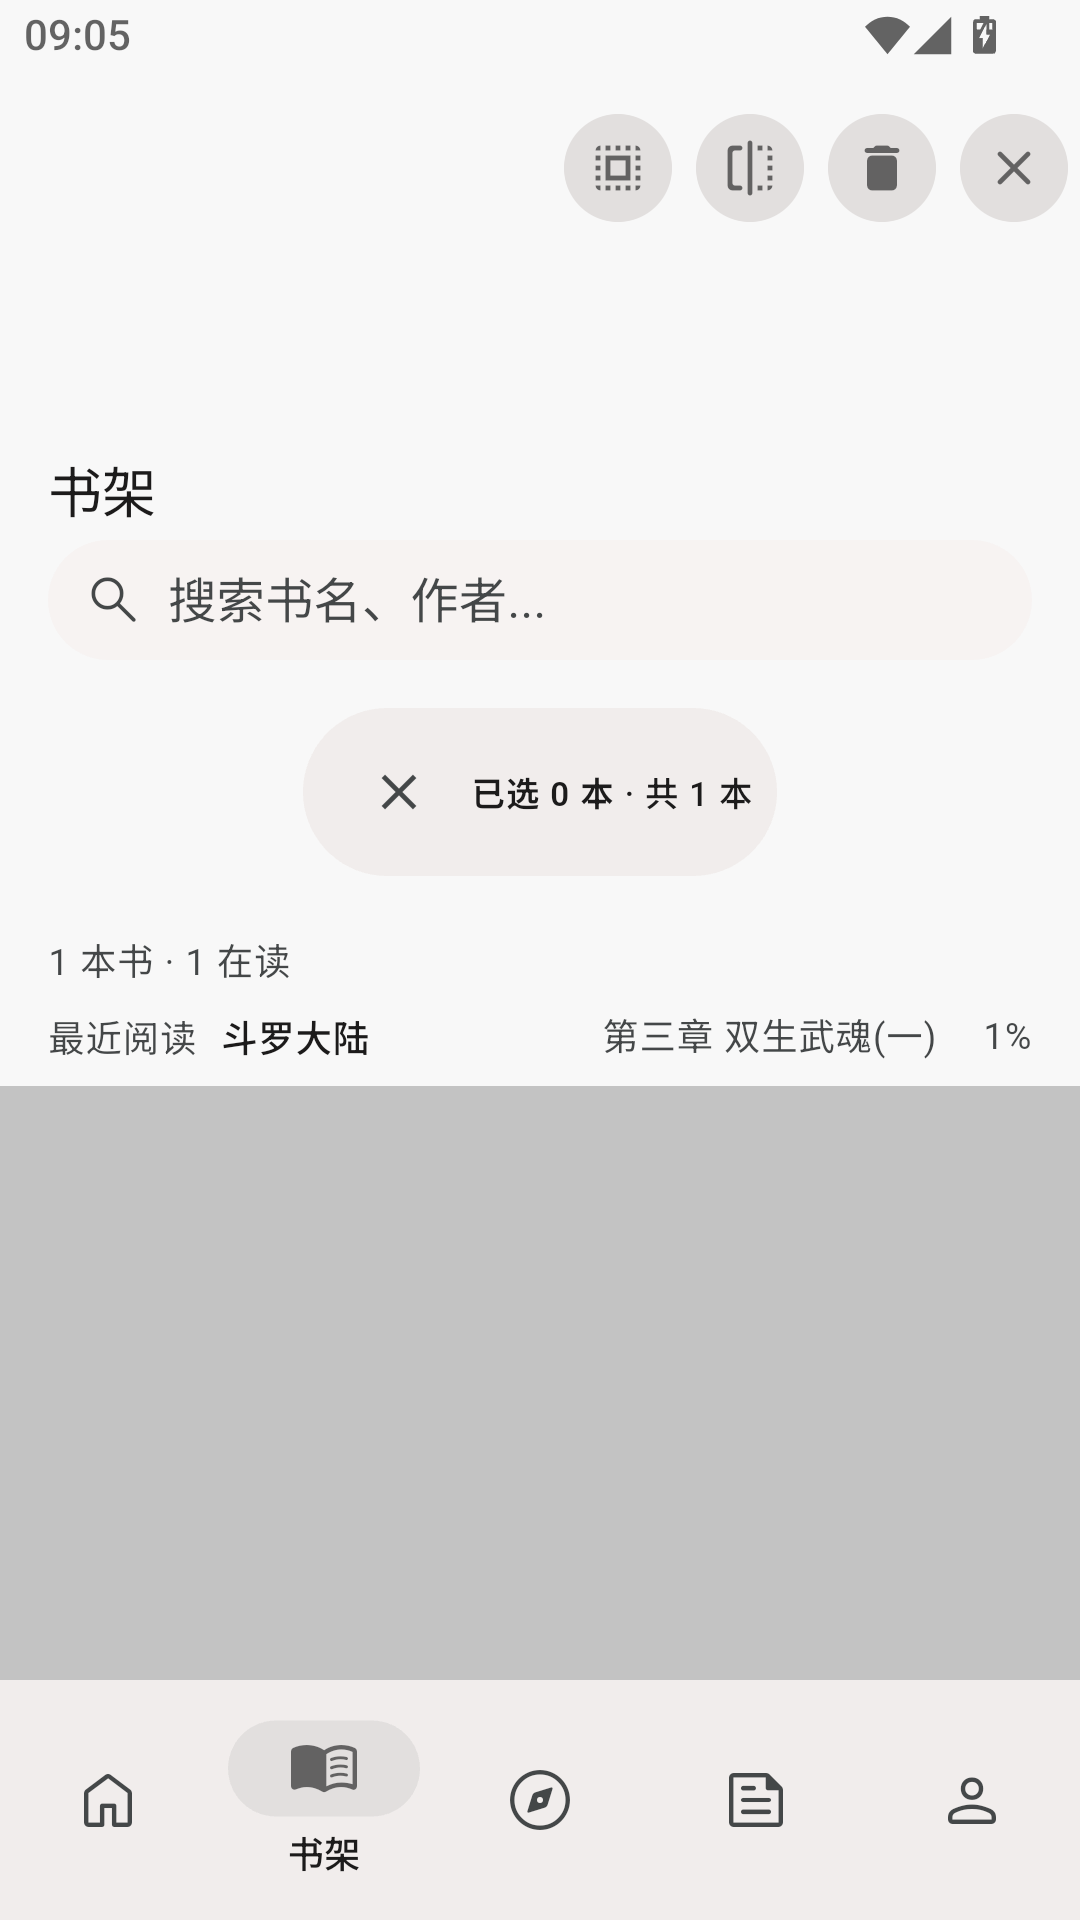
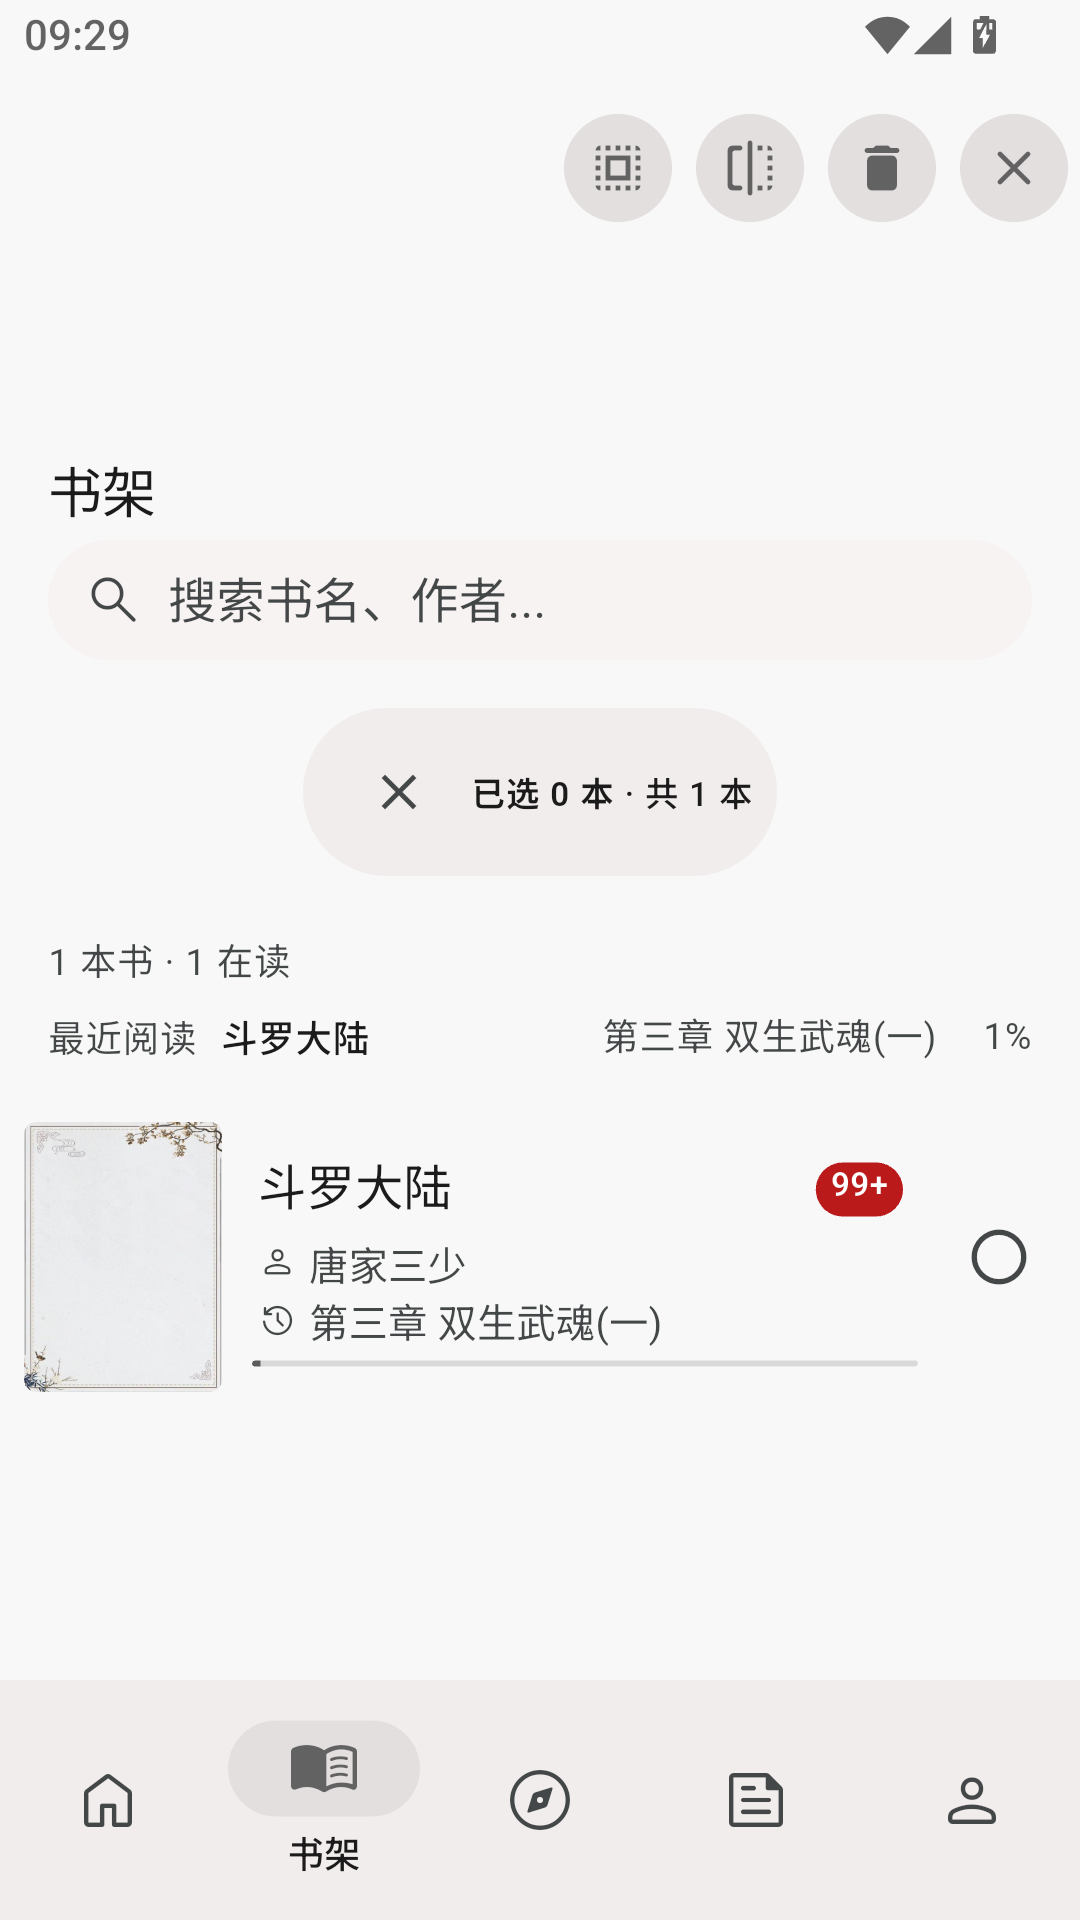
fix(ui): 书架选择模式书卡列表补 Key 修复不渲染——SliverReorderableList 要求 item 带 Key（2.0.258 复审缺陷补修）

diff --git a/flutter_legado/test/widget/bookshelf_batch_mode_test.dart b/flutter_legado/test/widget/bookshelf_batch_mode_test.dart
@@ -1,0 +1,112 @@
+import 'package:flutter/material.dart';
+import 'package:flutter_riverpod/flutter_riverpod.dart'
+    hide Provider, ChangeNotifierProvider;
+import 'package:flutter_test/flutter_test.dart';
+import 'package:shared_preferences/shared_preferences.dart';
+
+import 'package:flutter_legado/src/providers/bookshelf/bookshelf_notifier.dart';
+import 'package:flutter_legado/src/providers/providers.dart';
+import 'package:flutter_legado/src/screens/bookshelf_screen.dart';
+import 'package:flutter_legado/src/services/mock_book_api.dart';
+
+/// 选择模式（批量）书卡列表渲染回归测试
+///
+/// 背景：台账 1-5 P0「选择模式书卡列表不渲染」。此前整屏空白已修，但选择
+/// 模式下书架列表/网格分支仍未完整呈现书卡（封面+书名+作者）+ 勾选态。
+/// 本测试 pump 真实 [BookshelfScreen]（注入 MockBookApi 提供 3 本书），
+/// 复现并锁定「进入选择模式后书卡行仍渲染 + 点按切换勾选 + 胶囊数字变化」。
+void main() {
+  /// pump 真实书架页并返回其 ProviderScope 的容器（Riverpod 2.x 用
+  /// ProviderScope.containerOf 取回，避免已移除的 `container:` 参数）。
+  Future<ProviderContainer> pumpShelf(WidgetTester tester) async {
+    await tester.pumpWidget(
+      ProviderScope(
+        overrides: [bookApiProvider.overrideWithValue(MockBookApi())],
+        child: MaterialApp(home: BookshelfScreen()),
+      ),
+    );
+    final context = tester.element(find.byType(BookshelfScreen));
+    return ProviderScope.containerOf(context);
+  }
+
+  testWidgets('选择模式下书卡列表完整渲染且可勾选', (tester) async {
+    SharedPreferences.setMockInitialValues({});
+    final container = await pumpShelf(tester);
+    addTearDown(container.dispose);
+    // Notifier build() 里 _loadSettings/_loadBooks/_loadGroups 走微任务 + 异步，
+    // 连续 pump 让状态落定（isLoading=false、books 就绪）。
+    await tester.pump();
+    await tester.pump();
+    await tester.pump();
+
+    // 正常模式：书名在列表行可见
+    expect(find.text('斗破苍穹'), findsOneWidget,
+        reason: '正常模式书卡行应渲染书名');
+
+    // 进入选择模式
+    container.read(bookshelfNotifierProvider.notifier).toggleBatchMode();
+    await tester.pumpAndSettle();
+
+    // [P0 根因] 选择模式下书卡列表仍必须完整渲染（书名出现于书卡行，
+    // 而非仅「最近阅读」行）——这是此前被拒修复的缺陷点。
+    expect(
+      find.text('斗破苍穹'),
+      findsOneWidget,
+      reason: '选择模式下书卡行必须渲染书名（P0 缺陷点）',
+    );
+
+    // 顶栏 4 个批量动作保留
+    expect(find.byIcon(Icons.select_all), findsOneWidget, reason: '全选');
+    expect(find.byIcon(Icons.flip_rounded), findsOneWidget, reason: '反选');
+    expect(find.byIcon(Icons.delete_rounded), findsOneWidget, reason: '删除');
+    expect(find.byIcon(Icons.close_rounded), findsOneWidget, reason: '取消');
+
+    // 摘要胶囊：未勾选时「已选 0 本」
+    expect(find.text('已选 0 本'), findsOneWidget, reason: '初始未选');
+
+    // 点按书卡 → 勾选态切换，胶囊数字 0 → 1
+    await tester.tap(find.text('斗破苍穹'));
+    await tester.pumpAndSettle();
+    expect(find.text('已选 1 本'), findsOneWidget,
+        reason: '点按后胶囊计数应变为 1');
+
+    // 再点一次 → 取消勾选，数字回到 0
+    await tester.tap(find.text('斗破苍穹'));
+    await tester.pumpAndSettle();
+    expect(find.text('已选 0 本'), findsOneWidget,
+        reason: '再点按后计数应回到 0');
+  });
+
+  testWidgets('选择模式下网格视图书卡同样渲染且可勾选', (tester) async {
+    SharedPreferences.setMockInitialValues({});
+    final container = await pumpShelf(tester);
+    addTearDown(container.dispose);
+    await tester.pump();
+    await tester.pump();
+    await tester.pump();
+
+    // 切到网格视图
+    container
+        .read(bookshelfNotifierProvider.notifier)
+        .toggleViewMode();
+    await tester.pumpAndSettle();
+    expect(find.text('斗破苍穹'), findsOneWidget, reason: '网格视图书名可见');
+
+    // 进入选择模式
+    container.read(bookshelfNotifierProvider.notifier).toggleBatchMode();
+    await tester.pumpAndSettle();
+
+    // [P0 根因] 网格分支选择模式同样须渲染书卡 + 勾选
+    expect(
+      find.text('斗破苍穹'),
+      findsOneWidget,
+      reason: '选择模式网格书卡必须渲染书名（P0 缺陷点）',
+    );
+
+    // 点按书卡（网格瓦片）→ 胶囊数字 0 → 1
+    expect(find.text('已选 0 本'), findsOneWidget);
+    await tester.tap(find.text('斗破苍穹'));
+    await tester.pumpAndSettle();
+    expect(find.text('已选 1 本'), findsOneWidget);
+  });
+}

diff --git a/flutter_legado/lib/src/screens/bookshelf_screen.dart b/flutter_legado/lib/src/screens/bookshelf_screen.dart
@@ -1229,10 +1229,18 @@ class _BookshelfScreenState extends ConsumerState<BookshelfScreen>
 
   /// [UI-fix 2.0.258] 选择模式列表行（勾选态）：选中高亮 + 尾部对勾，
   /// 点按切换选中；文案对齐参考版「已选N本 · 共M本」胶囊口径
+  ///
+  /// [UI-fix 2.0.258 修正] 根因：`SliverReorderableList` 的惰性 `itemBuilder`
+  /// 要求返回的每个 item 必须携带 `Key`（reorderable_list.dart 断言
+  /// `child.key != null`，否则该 item 构建期抛异常、整行不渲染）。正常态
+  /// 分支返回 `BookListItem(key: ValueKey(bookUrl))` 天然满足；而批量态此前
+  /// 返回无 key 的 `Material`，导致选择模式下书卡列表整块空白（台账 1-5 P0
+  /// 复审缺陷）。现给外层 `Material` 补上稳定 `ValueKey(bookUrl)` 修复。
   Widget _buildBatchListItem(
       BuildContext context, WidgetRef ref, Book book, bool selected) {
     final cs = Theme.of(context).colorScheme;
     return Material(
+      key: ValueKey(book.bookUrl),
       color: selected
           ? cs.secondaryContainer.withValues(alpha: 0.3)
           : cs.surface,

diff --git a/CHANGELOG.md b/CHANGELOG.md
@@ -7,8 +7,12 @@ All notable changes to this project will be documented in this file.
 ### Fixed
 - [UI] 书架「选择模式」进入后整屏灰白空白（台账 SCREEN_1TO1_PARITY_LEDGER 1-5 P0，用户可见功能不可用，MuMu 实机复拍两次复现：菜单→选择模式后无顶栏/无全选·删除·取消操作项/无书列表，仅剩底部导航，uiautomator dump 无任何选择态关键词）。根因=批量摘要卡 `_buildBatchSummaryCard` 被构建为 `Positioned` 子树却挂在 `SliverToBoxAdapter`（非 Stack 父级）下，进入选择模式（isBatchMode=true）后布局期抛异常（debug 报 "A Positioned widget must be wrapped with its parent"，release 帧渲染中断）→ body 整屏空白。修复=①摘要卡改常规 Center 布局（对齐参考版 05 截图「已选N本 · 共M本」胶囊：×退出钮+计数，位置移至头部之后）；②选择模式顶栏由「搜索+溢出菜单」切换为批量动作集（全选/反选/删除/取消，tooltip 暴露为 content-desc 保证 dump 可检索）；③列表/分组列表/网格行均呈现勾选态（选中高亮+对勾，点按切换）；④删除动作经确认对话框后逐本 `deleteBook`（对齐 BookshelfManageNotifier 方案），成功后同步列表并重拉数据源、清空选中并退出选择模式。空书架+选择模式仍呈现胶囊（对齐参考版 05 空态截图）。剩余能力（批量下载/移动分组 目前为 SnackBar 占位、批量缓存/批量换源等）登记不实现
 
+### Fixed（补充修正）
+- [UI] 2.0.258 复审缺陷补修：选择模式下书架**书卡列表/网格分支仍不渲染**（书卡区灰色空区、无封面/书名/勾选态）。根因=`SliverReorderableList` 惰性 `itemBuilder` 要求每个 item 必带 `Key`（`reorderable_list.dart` 断言 `child.key != null`），而批量态 `_buildBatchListItem` 返回**无 key 的 `Material`** → 进入选择模式该 item 构建期抛异常、整行不渲染（正常态 `BookListItem` 自带 `ValueKey` 故不受影响）。修复=`_buildBatchListItem` 外层 `Material` 补 `key: ValueKey(book.bookUrl)`；新增真实 widget 测试 `bookshelf_batch_mode_test`（pump 真实 `BookshelfScreen` 复现并锁定勾选态）
+
 ### Test
 - 实机验证：MuMu Test 实例（192.168.1.19:16416）安装 release 2.0.258+259，书架→溢出菜单→选择模式，屏幕呈现顶栏批量动作集（全选/反选/删除/取消）+「已选N本 · 共M本」胶囊+书列表勾选态，uiautomator dump 含 全选/反选/删除/取消/已选 关键词；`flutter analyze` 无问题；`flutter test` 全过。截图 docs/parity_shots/ours_2.0.258/05_bookshelf_select_mode.png
+- 复审补修后复验：选择模式书卡行完整渲染（dump 中「斗罗大陆」命中 最近阅读行 + 书卡行 2 处，书卡行 bounds y>1100），点按书卡切换勾选、胶囊数字随之变化；`flutter analyze` 无问题；`flutter test` 全过（含新增 2 例选择模式书卡渲染/勾选测试）
 
 - Contributor: 全栈工程师子代理
 

diff --git a/flutter_legado/assets/updateLog.md b/flutter_legado/assets/updateLog.md
@@ -4,6 +4,7 @@
 
 **2026/09/14**
 - 修复书架「选择模式」进入后整屏空白：顶栏现显示全选/反选/删除/取消动作，书列表带勾选态，「已选N本 · 共M本」计数胶囊对齐参考版
+- 补修选择模式下书卡列表/网格不渲染（灰色空区）：现完整呈现每本书卡（封面+书名+作者）带勾选态，点按书卡即可勾选、计数随之变化
 
 **2026/09/14**
 - 书架溢出菜单顺序对齐参考版：「导出书单/导入书单/日志」现在首屏直接可见（此前被挤到滚动区外）
